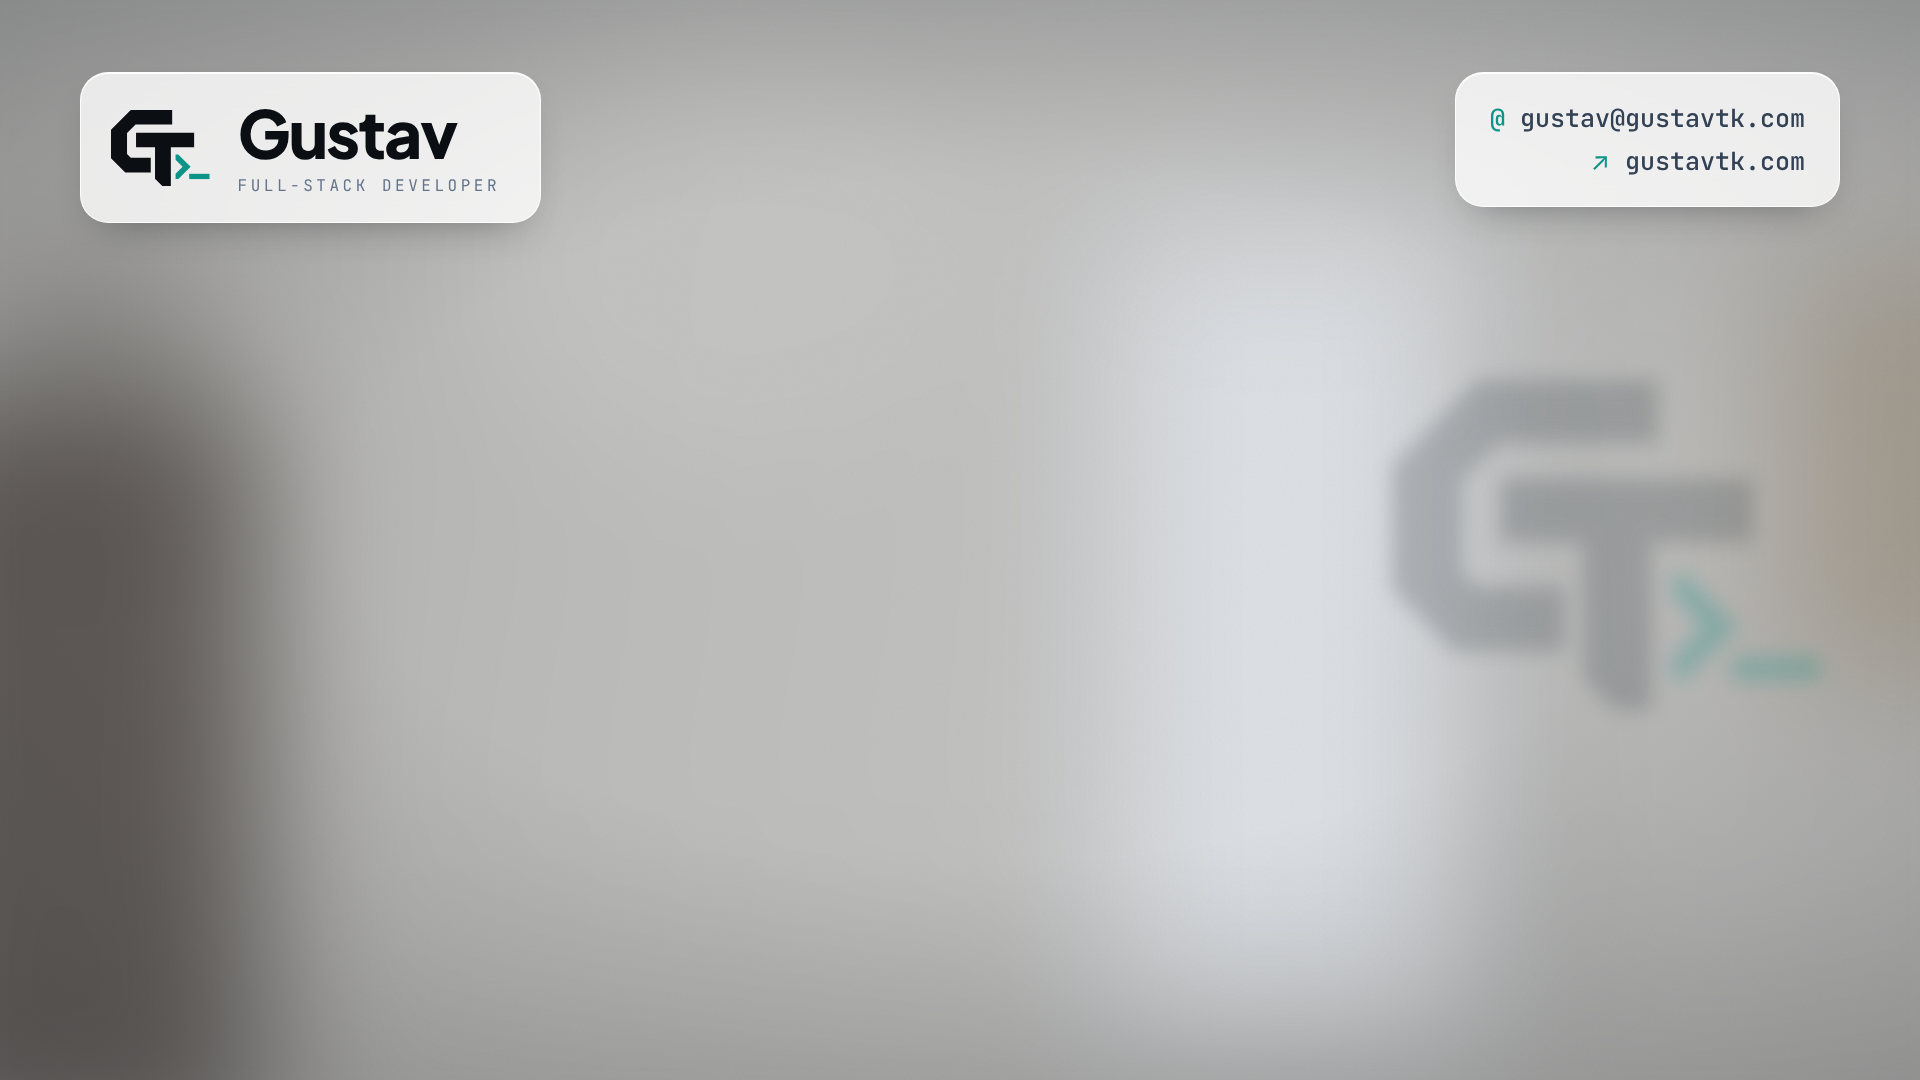
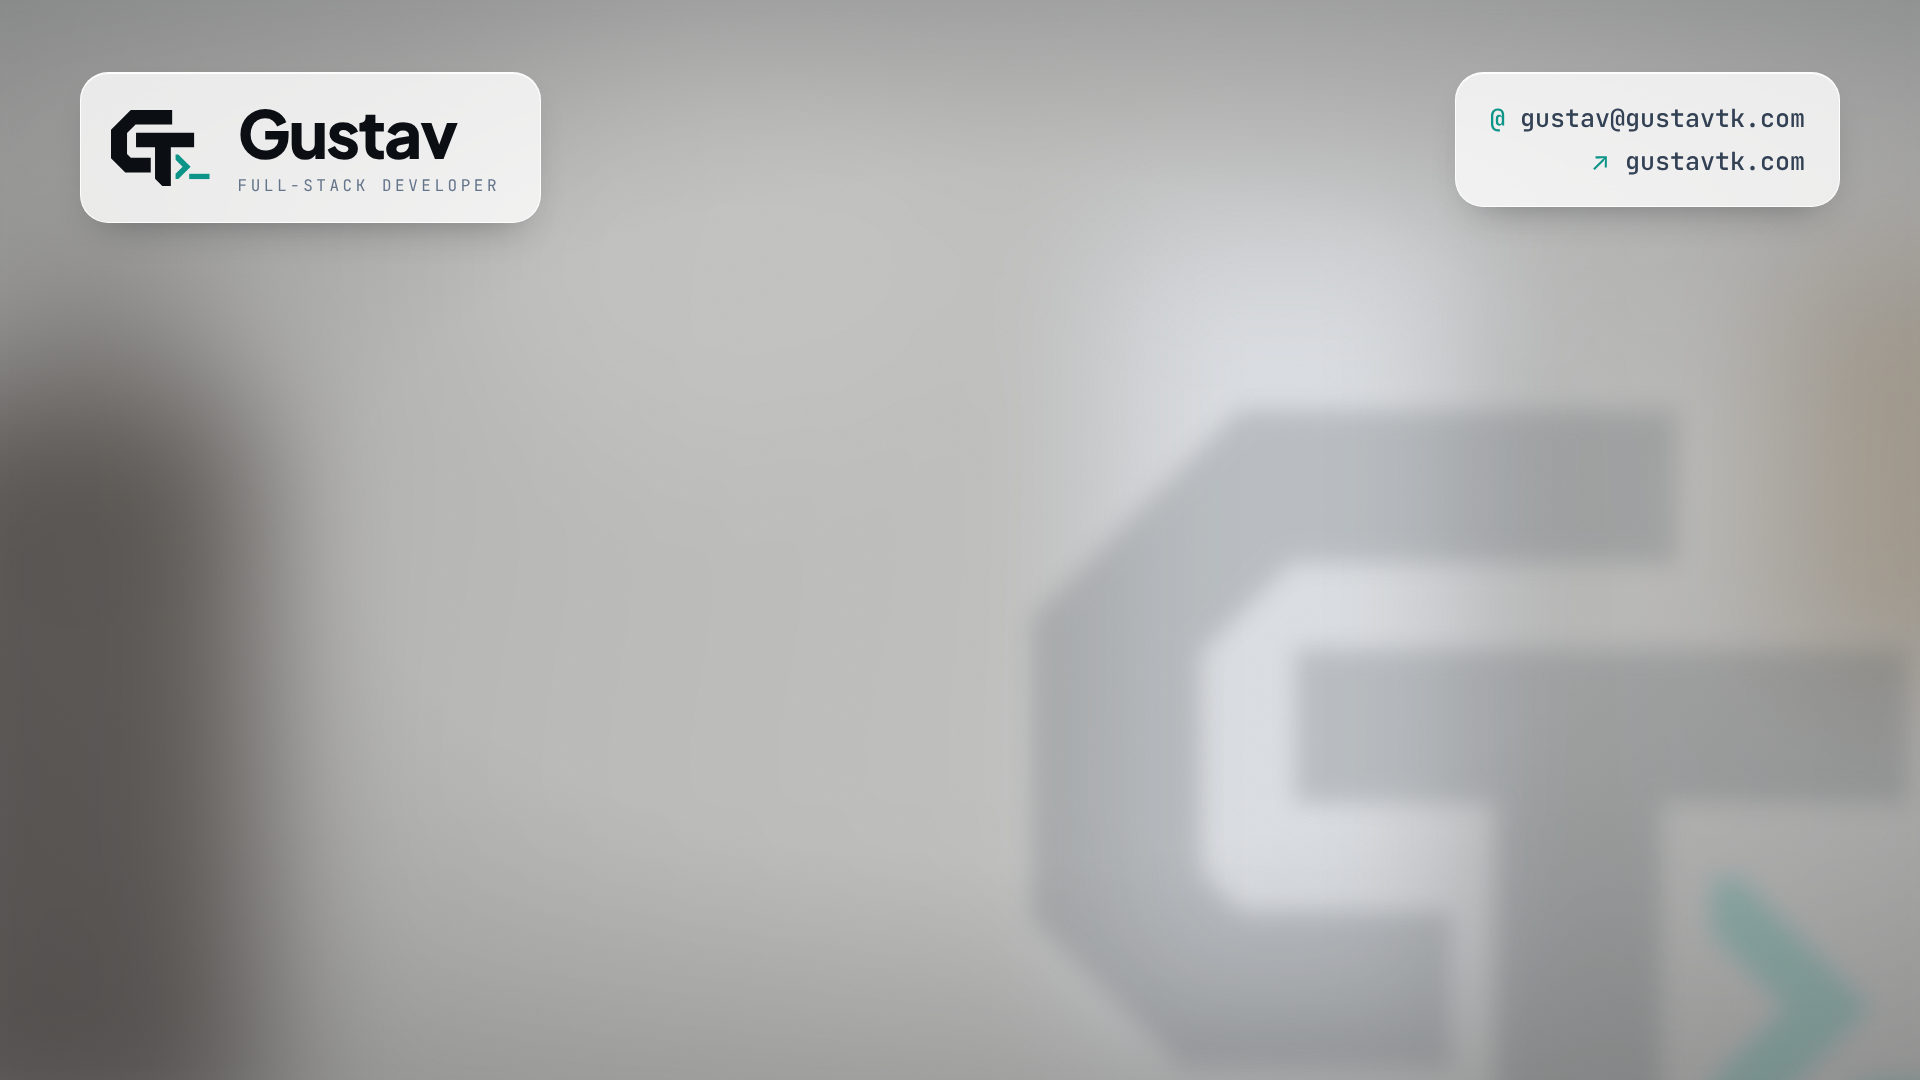
Soft-blur Meet background: huge faded watermark bleeding off the bottom-right edges
Claude-Session: https://claude.ai/code/session_01H2TVSc56KQZrPADdEAeWoT

diff --git a/meet-backgrounds/README.md b/meet-backgrounds/README.md
@@ -12,7 +12,7 @@ Logo, name and role sit top left; email and website top right; the middle stays 
 | `03-browser.png` | A light browser window: your brand in the tab, gustavtk.com in the address bar |
 | `04-code.png` | Your contact details as a `contact.ts` snippet in a small editor card |
 | `05-glass.png` | Frosted-glass cards over a light take on the site hero glow and grid, with a teal mark watermark bottom right (role: Full-Stack Developer) |
-| `06-soft-blur.png` | An ash-grey room far out of focus, like a webcam background blur, with the mark as a soft out-of-focus sign on the wall |
+| `06-soft-blur.png` | An ash-grey room far out of focus, like a webcam background blur, with the mark huge and faded, running off the bottom-right edges |
 | `07-blueprint.png` | An engineering drawing: title block top left, contact cells top right, the mark dimensioned bottom right |
 | `08-paper-layers.png` | Stacked cut-paper waves in brand teals, the mark embossed into the front sheet |
 | `09-full-stack.png` | "Full-stack" made literal: UI, API and DB layers stacked bottom right, the mark on top |
